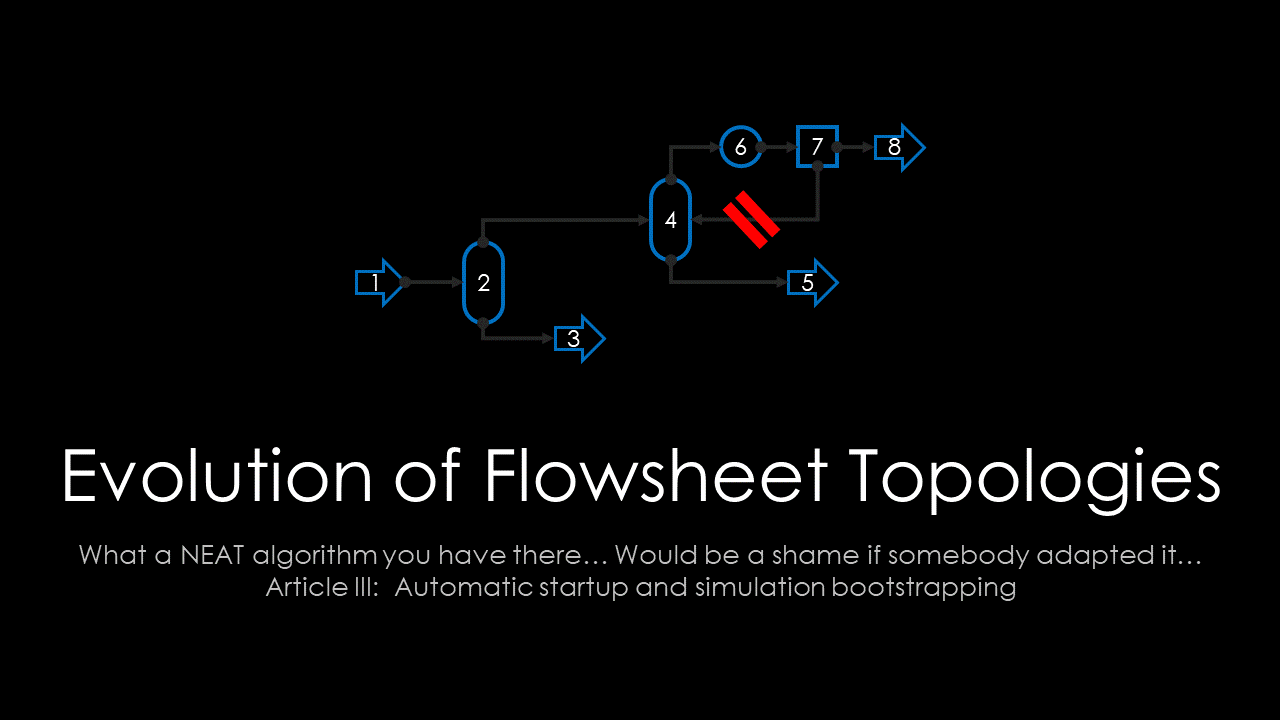
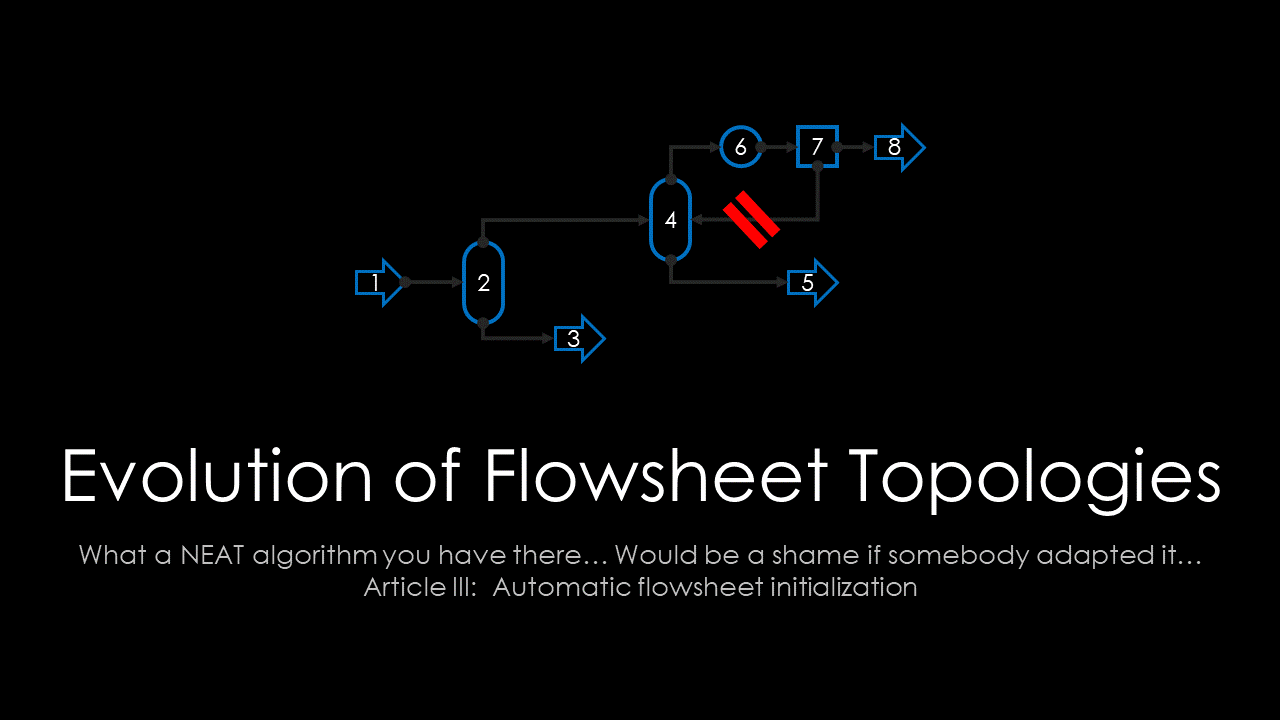
Uploaded draft of article 7

Changed region(s): [[0.1875, 0.7944, 0.8125, 0.825]]

diff --git a/_posts/2020-01-28-evolution-of-flowsheet-topologies-part3.md b/_posts/2020-01-28-evolution-of-flowsheet-topologies-part3.md
@@ -1,0 +1,98 @@
+---
+layout: post
+title: "Evolution of flowsheet topologies - Part 3: Automatic flowsheet initialization"
+author: "Jochen Steimel"
+categories: journal
+tags: [evolutionyalgorithm neat processsynthesis]
+image: Article7_Title.png
+---
+
+In my last article I alluded to an unsolved challenge that remains to be discussed before I can start to *actually implement* the evolutionary algorithm: 
+
+>It remains to be shown that an algorithm can be found that, using a numerical solver, evaluates the arbitrary process designs that will be generated by the evolutionary algorithm by mutation and cross-over.
+
+Anyone with a background in [process simulation](https://en.wikipedia.org/wiki/Process_simulation) can attest to the difficulty of getting process flowsheets to converge, especially if they exhibit distillation columns and recycles. This challenge is exacerbated in equation-oriented simulators, which have to rely on a general purpose equation-solving algorithms to solve the mass- and energy balance and cannot use tailored algorithms for each unit, like sequential-modular simulators can do. 
+
+A good comparison of these two approaches can be found on the homepage of [PSE](https://www.psenterprise.com/concepts/equation-oriented), the well known vendor of the gPROMS modelling & simulation software. PSE has developed a lot of initialization routines for the equation-oriented simulator gPROMS, but they are generally considered secrets and are not discussed publicly. 
+
+If one goes back in time into the 1970ies and 1980ies, a lot of literature shows up that deals with the problem of solving simulation flowsheets. Limited numerical capabilities of the time required "intelligent" algorithms that exploited the structure of the problem to speed up the solution time. 
+
+>Although many of these ideas were originally intended to be used within a sequential-modular simulators, one can easily adapt them to an equation-oriented simulator if it is possible to quickly generate sub-equation-sets consisting only of a single unit.
+
+## First steps and trivial initialization
+
+The simulator available to me, my toy simulator MiniSim, only supports an equation-oriented (EO) modeling approach and solves the resulting nonlinear algebraic equation systems using a (heuristically modified) Newton-Raphson solver (you can find the code [here](https://github.com/Nukleon84/MiniSim/blob/master/source/MiniSim.Core/Numerics/BasicNewtonSolver.cs)). 
+
+It has all the problems associated with an EO solver such as difficult startup from arbitrary initial conditions. Luckily I have full control over the source code of MiniSim as it is an Open-Source project and can add new features easily. One extension was to add problem-specific **Initialize()** methods to each unit operation class. Inside these methods I wrote specific algorithms to pre-calculate the state variables using simple Flash routines and hard-coded mass-balances. As these algorithms have to be hand-written, I can only support a limited set of specifications. But anyway, I will solve the "real" flowsheet using an equation-oriented solver later, so a good initial guess is fine.
+
+Furthermore, the user of MiniSim is able to create light-weight instances of Equation Systems very easily. Based on that feature, I added a **Solve()** method to each unit operation class, that will create a minimal equation system consisting just of the equations and variables of the unit operation as well as those of the outgoing streams. This small equation system is then solved using a Dulmage-Mendelsohn Decomposition-based solver that automatically determines a matching between variables and equations and solves them one at a time.
+
+If the **Initialize()** and **Solve()** methods are called in succession, the model has quite reasonable initial values, that in many cases result in acceptable convergence rates for the overall problem.
+
+Now that we are able to solve units one-by-one, or "sequential-modular", we only need one building block for a robust calculation: the right sequence.
+
+## Sequencing and tearing
+
+**A LOT** has already been written about the subject of flowsheet tearing. If you want to know more about this topic, refer to the works of [Varma, Lau and Ulrichson](https://www.sciencedirect.com/science/article/abs/pii/009813549380026J), [Motard and Westerberg](https://aiche.onlinelibrary.wiley.com/doi/abs/10.1002/aic.690270504) or [Gundersen](https://www.researchgate.net/publication/41719546_Partitioning_and_Tearing_of_Networks_Applied_to_Process_Flowsheeting).
+
+When talking about process flowsheets, one cannot dismiss graph theory. Any process flowsheet can be represented by a directed graph consisting of flowsheet units (nodes) and streams (vertices). The challenge is to find a [topological sorting](https://en.wikipedia.org/wiki/Topological_sorting) of the graph. While this is easy to determine for a directed **acyclic** graph, process flowsheet very often have recycle streams that form closed cycles. These cycles have to be *torn*, and you need to decide *which stream* to tear. Tear streams (or sets of tear streams) are not unique, which might explain the multitude of tearing algorithms, as each algorithm has different criteria for selecting the **optimal** tear set.
+
+## A simple example
+
+I have created a [Jupyter Notebook](https://github.com/Nukleon84/MiniSim/blob/master/projects/ProcessSynthesis/AutomaticInitialization.ipynb) with an example to test out my ideas for a simple tearing algorithm. It uses the flowsheet of a pressure-swing distillation for separating methanol and acetone. This process features two distillation columns and a recycle flow from the second column to the first and was adapted from a [ChemSep simulation](http://www.chemsep.com/downloads/data/Pressure_Swing_MA_iecr47p2696.png), which in turn is based on a paper by [Luyben](https://pubs.acs.org/doi/pdf/10.1021/ie100323d).
+
+>**Remark:** Due to the way rendered flowsheets are converted to Jupyter images, they are saved as raw bitmaps with Base64 encoding. This results in *very large* Jupyter Notebooks. You might have to clone the entire repository to view the Notebooks, as the Notebook Viewer of Github sometimes refuses to render to large files. I need a way to compress the image before they are stored as Base64 strings in the Notebook file but so far haven't been successful.
+
+ 
+
+I decided to go with my own tearing algorithm because the existing ones are rather convoluted and are geared to find sequences that can be solved with the minimal amount of evaluations in a sequential-modular simulator. As I only need good initial guesses, I can accept an algorithm that would take long to converge, because I abort it long before it would converge naturally.
+
+I will not go into the details of the implementation, which you can see in the [Jupyter Notebook](https://github.com/Nukleon84/MiniSim/blob/master/projects/ProcessSynthesis/AutomaticInitialization.ipynb). In short, the algorithm performs the following steps:
+* Using Tarjan's algorithm for strongly connected components the strongly connected components (SCC) are detected and a *coarse* sequence of units and sub-flowsheets that can be solved sequentially is generated.
+* The *coarse* sequence is iterated over: 
+    * If an element is a single unit operation, it is added to the final calculation sequnece.
+    * If an element is a SCC the strongly connected component is torn by adding only those unit operations to the calculation sequence that have the most direct predecessors already in the calculation sequence.     
+    With this heuristic a unit is initialized only when most of its upstream units are already solved. When a unit is added to the sequence, other units now have their requirements fulfilled and can be added to the sequence themselves.
+* Step 2 is repeated until all strongly connected components are empty and all unit operations of a flowsheet are part of the final calculation sequence.
+
+In the image below you can see the results of the strongly connected component algorithm for this case study when the recycle stream is manually torn: Each source and sink can be solved individually (indicated by the border color), whereas each distillation column with periphery (condenser, reflux splitter and reboiler) would have to be solved as one SCC.
+
+![OpenRecycle](https://nukleon84.github.io/ChemicalCode/assets/img/Article7_PressureSwingDistillation_Open.png)
+
+If the recycle stream is connected, both columns are part of the same strongly connected component (indicated by the green borders). But even in this case, which features 5 cycles, the simple heuristic works quite well and the flowsheet can be solved quickly. It might be required to perform multiple (3-5) initialization passes to be sure that every unit was calculated with *reasonable* inputs at least once.
+
+![ClosedRecycle](https://nukleon84.github.io/ChemicalCode/assets/img/Article7_PressureSwingDistillation_Closed.png)
+
+## From fixed flowsheets to genomes
+
+My end goal is to create flowsheet topologies from simpler data structures that **encode** the flowsheet with only a few numbers. I talked about the Genome in an [earlier article](https://nukleon84.github.io/ChemicalCode/journal/evolution-of-flowsheet-topologies-part2.html), and this time I added the ability to encode Distillation columns.
+
+>In the last article I still debated myself if I should encode distillation columns as adiabatic sections or simple columns (with reboiler and condenser). 
+
+I decided to go with alternative B. I just could not find a way to find reasonable values for the vapor and liquid reflux inlets if I could not assume the existence of a reboiler or condenser. What composition should the vapor have? What should the reflux look like? Pure solvent? Should it resemble to feed? I just don't know yet. While I will lose some solutions from the design space, I can at least calculate *some* designs already now, and maybe I can find a way to add absorbers or stripping columns to the genome later in my article series.
+
+You can find the extended mapping algorithm in another [Jupyter Notebook](https://github.com/Nukleon84/MiniSim/blob/master/projects/ProcessSynthesis/GenotypeMapping-Distillation.ipynb). Here I hand-crafted a simple genome describing two distillation columns in sequence. In the image below you can see that the sequencing algorithms is applied to the resulting phenotype and the algorithm can actually solve this flowsheet very easily.
+
+![GenomeToColumn](https://nukleon84.github.io/ChemicalCode/assets/img/Article7_DistillationPhenotype.png)
+
+## A first step into the random
+ 
+Now that I was confident that I could represent distillation columns in the genome **and** solve the resulting flowsheet models I build yet another small [Jupyter Notebook](https://github.com/Nukleon84/MiniSim/blob/master/projects/ProcessSynthesis/RandomGenomes.ipynb) that generates random flowsheets consisting of flashes and distillation columns up to a pre-defined depth. 
+
+One such randomly generated flowsheet can be seen in the picture below. Once again the Tarjan's algorithm performs its magic and a reasonable sequence can be identified and the flowsheet can be solved quite easily even with a toy simulator like MiniSim.
+
+![RandomPhenotype](https://nukleon84.github.io/ChemicalCode/assets/img/Article7_RandomPhenotype.png)
+
+## Conclusion
+In this article I have solved a lot of open questions for this article series:
+
+* A simple heuristic algorithm that sequences an **arbitrary** flowsheet and performs a generalized start-up routine was described and implemented.
+* A way to represent distillation columns in the genome was defined and the Genotype-to-Phenotype mapping algorithm was modified to create flowsheet instances containing distillation columns.
+* A randomized algorithm was described and implemented that creates feasible flowsheet designs (although non-sense) from scratch.
+
+The next articles will cover the following topics:
+* How to create an actual mutation function that creates new flowsheet designs from existing ones?
+* How to find suitable objective functions for comparing different designs?
+* How to transfer the ideas of cross-over and speciation from the NEAT algorithm to the problem domain of flowsheet topologies?
+
+ So until next time, stay tuned and contact me if you have any questions, remarks or ideas. I would be happy to discuss the topic adressed in this post with anyone interested.
